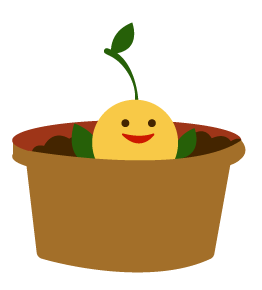
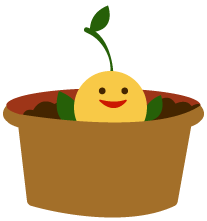
added animation

Changed region(s): [[0.0, 0.0271, 0.9855, 1.0], [0.5217, 0.543, 0.5797, 0.5701], [0.1159, 0.4887, 0.1739, 0.5158]]

diff --git a/frontend/index.html b/frontend/index.html
@@ -8,8 +8,8 @@
     <script src="https://ajax.googleapis.com/ajax/libs/jquery/1.11.3/jquery.min.js"></script>
     <link href="http://maxcdn.bootstrapcdn.com/bootstrap/3.3.5/js/bootstrap.min.js" rel="stylesheet">
     <script src="js/page.js"></script>
-    <script src="js/qrcode.js"></script>    
-    <script src="js/mustache.js"></script>    
+    <script src="js/qrcode.js"></script>
+    <script src="js/mustache.js"></script>
     <script src="js/main.js"></script>
     <link href='https://fonts.googleapis.com/css?family=Montserrat' rel='stylesheet' type='text/css'>
     <link href="style.css" rel="stylesheet">
@@ -228,7 +228,10 @@
                 <img src="images/starbucks-logo.png">
             </div>
             <div id="strbx_rewards">
-                <img src="images/sprout.png" alt="Starbucks Rewards" id="strbx_img">
+              <div id="cf">
+                <img class="top" src="images/sprout.png" alt="Starbucks Rewards">
+                <img class="bottom" src="images/seed-v2.png" alt="Starbucks Rewards">
+              </div>
             </div>
             <div class="tips">
                 <div class="heading text-center">

diff --git a/frontend/style.css b/frontend/style.css
@@ -26,9 +26,35 @@ hr {
     width: 100%;
 }
 
+cf {
+  position:absolute;
+  height:160px;
+  width:160px;
+  margin:0 auto;
+}
+
+#cf img {
+  position:absolute;
+  /*left:0;*/
+  height:160px;
+  width:160px;
+  -webkit-transition: opacity 1s ease-in-out;
+  -moz-transition: opacity 1s ease-in-out;
+  -o-transition: opacity 1s ease-in-out;
+  transition: opacity 1s ease-in-out;
+}
+
+#cf img.bottom:hover {
+  opacity:0;
+}
+
+#cf img.bottom {
+  background-color: white;
+}
+
 /*brown for c all and redeam rewards */
 .other-brown {
-color: #894700;    
+color: #894700;
 }
 .form-control {
     border-radius: 0;
@@ -54,7 +80,7 @@ color: #894700;
     background-color: #BF1B00;
 }
 .page {
-    display: none;
+    /*display: none;*/
 }
 
 h1, h2, h3 {
@@ -187,7 +213,7 @@ h1, h2, h3 {
     margin-top:20px;
     margin-left:80px;
 }
-
+``
 
 #strbx_img{
     width:160px;
@@ -226,4 +252,3 @@ h1, h2, h3 {
     margin-top: 15px;
     padding-top:15px;
 }
-
